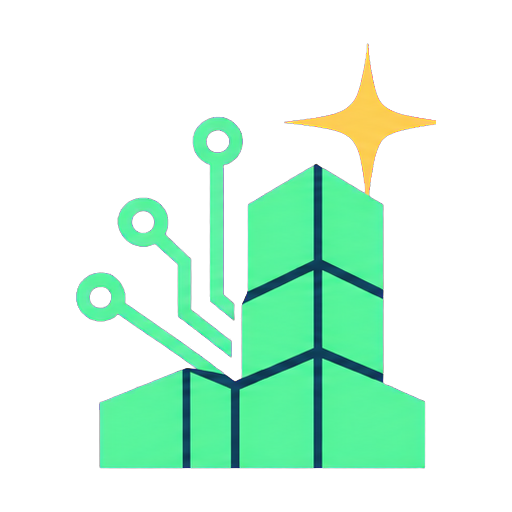
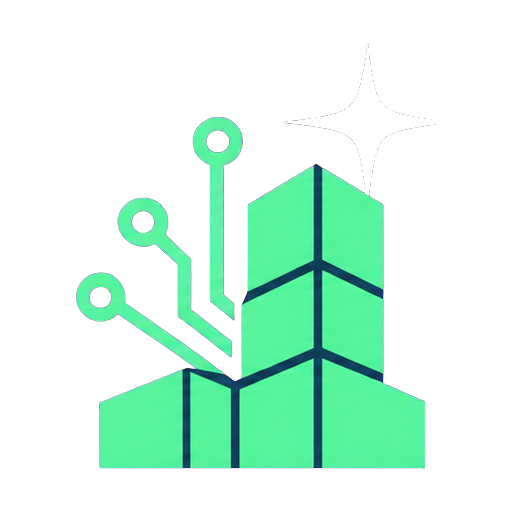
last tweaks2

Changed region(s): [[0.5625, 0.0938, 0.8438, 0.375]]

diff --git a/case-study.html b/case-study.html
@@ -10,20 +10,20 @@
     <meta property="og:title" content="FREE Custom Software for Regina Businesses | Built with AI">
     <meta property="og:description" content="We're building 2 custom software projects for Regina businesses — completely free — in exchange for a case study. Apply now.">
     <meta property="og:type" content="website">
-    <meta property="og:image" content="https://builtwithai.ca/images/builtwithai-ca-mint-gold-clean.png">
+    <meta property="og:image" content="https://builtwithai.ca/images/builtwithai-ca-block-no-star.png">
     <link rel="preconnect" href="https://fonts.googleapis.com">
     <link rel="preconnect" href="https://fonts.gstatic.com" crossorigin>
     <link href="https://fonts.googleapis.com/css2?family=Inter:wght@300;400;500;600;700;800;900&family=JetBrains+Mono:wght@400;500&display=swap" rel="stylesheet">
     <link rel="stylesheet" href="css/styles.css">
     <link rel="stylesheet" href="css/case-study.css">
-    <link rel="icon" type="image/png" href="images/builtwithai-icon-mint-gold-clean.png">
+    <link rel="icon" type="image/png" href="images/builtwithai-icon-block-no-star.png">
 </head>
 <body>
     <!-- Navigation -->
     <nav class="navbar" id="navbar">
         <div class="container nav-container">
             <a href="index.html" class="logo" aria-label="builtwithai.ca home">
-                <img class="logo-image" src="images/builtwithai-ca-mint-gold-clean.png" alt="builtwithai.ca">
+                <img class="logo-image" src="images/builtwithai-ca-block-no-star.png" alt="builtwithai.ca">
             </a>
             <button class="mobile-toggle" id="mobileToggle" aria-label="Toggle menu" aria-expanded="false" aria-controls="navLinks">
                 <span></span>
@@ -356,7 +356,7 @@
             <div class="footer-content footer-simple">
                 <div class="footer-brand">
                     <a href="index.html" class="logo" aria-label="builtwithai.ca home">
-                        <img class="logo-image" src="images/builtwithai-ca-mint-gold-clean.png" alt="builtwithai.ca">
+                        <img class="logo-image" src="images/builtwithai-ca-block-no-star.png" alt="builtwithai.ca">
                     </a>
                     <p>Custom software solutions designed specifically for your business, powered by artificial intelligence.</p>
                 </div>

diff --git a/index.html b/index.html
@@ -10,19 +10,19 @@
     <meta property="og:title" content="Built with AI &mdash; Apps, Agents &amp; AI Workflows">
     <meta property="og:description" content="Custom apps, agentic workflows, automation, and practical AI consulting built around how your business actually works.">
     <meta property="og:type" content="website">
-    <meta property="og:image" content="https://builtwithai.ca/images/builtwithai-ca-mint-gold-clean.png">
+    <meta property="og:image" content="https://builtwithai.ca/images/builtwithai-ca-block-no-star.png">
     <link rel="preconnect" href="https://fonts.googleapis.com">
     <link rel="preconnect" href="https://fonts.gstatic.com" crossorigin>
     <link href="https://fonts.googleapis.com/css2?family=Inter:wght@300;400;500;600;700;800;900&family=JetBrains+Mono:wght@400;500&display=swap" rel="stylesheet">
     <link rel="stylesheet" href="css/styles.css">
-    <link rel="icon" type="image/png" href="images/builtwithai-icon-mint-gold-clean.png">
+    <link rel="icon" type="image/png" href="images/builtwithai-icon-block-no-star.png">
 </head>
 <body>
     <!-- Navigation -->
     <nav class="navbar" id="navbar">
         <div class="container nav-container">
             <a href="#" class="logo" aria-label="builtwithai.ca home">
-                <img class="logo-image" src="images/builtwithai-ca-mint-gold-clean.png" alt="builtwithai.ca">
+                <img class="logo-image" src="images/builtwithai-ca-block-no-star.png" alt="builtwithai.ca">
             </a>
             <button class="mobile-toggle" id="mobileToggle" aria-label="Toggle menu" aria-expanded="false" aria-controls="navLinks">
                 <span></span>
@@ -419,7 +419,7 @@
             <div class="footer-content">
                 <div class="footer-brand">
                     <a href="#" class="logo" aria-label="builtwithai.ca home">
-                        <img class="logo-image" src="images/builtwithai-ca-mint-gold-clean.png" alt="builtwithai.ca">
+                        <img class="logo-image" src="images/builtwithai-ca-block-no-star.png" alt="builtwithai.ca">
                     </a>
                     <p>Custom apps, agentic workflows, automation, and practical AI consulting designed around how your business works.</p>
                 </div>
